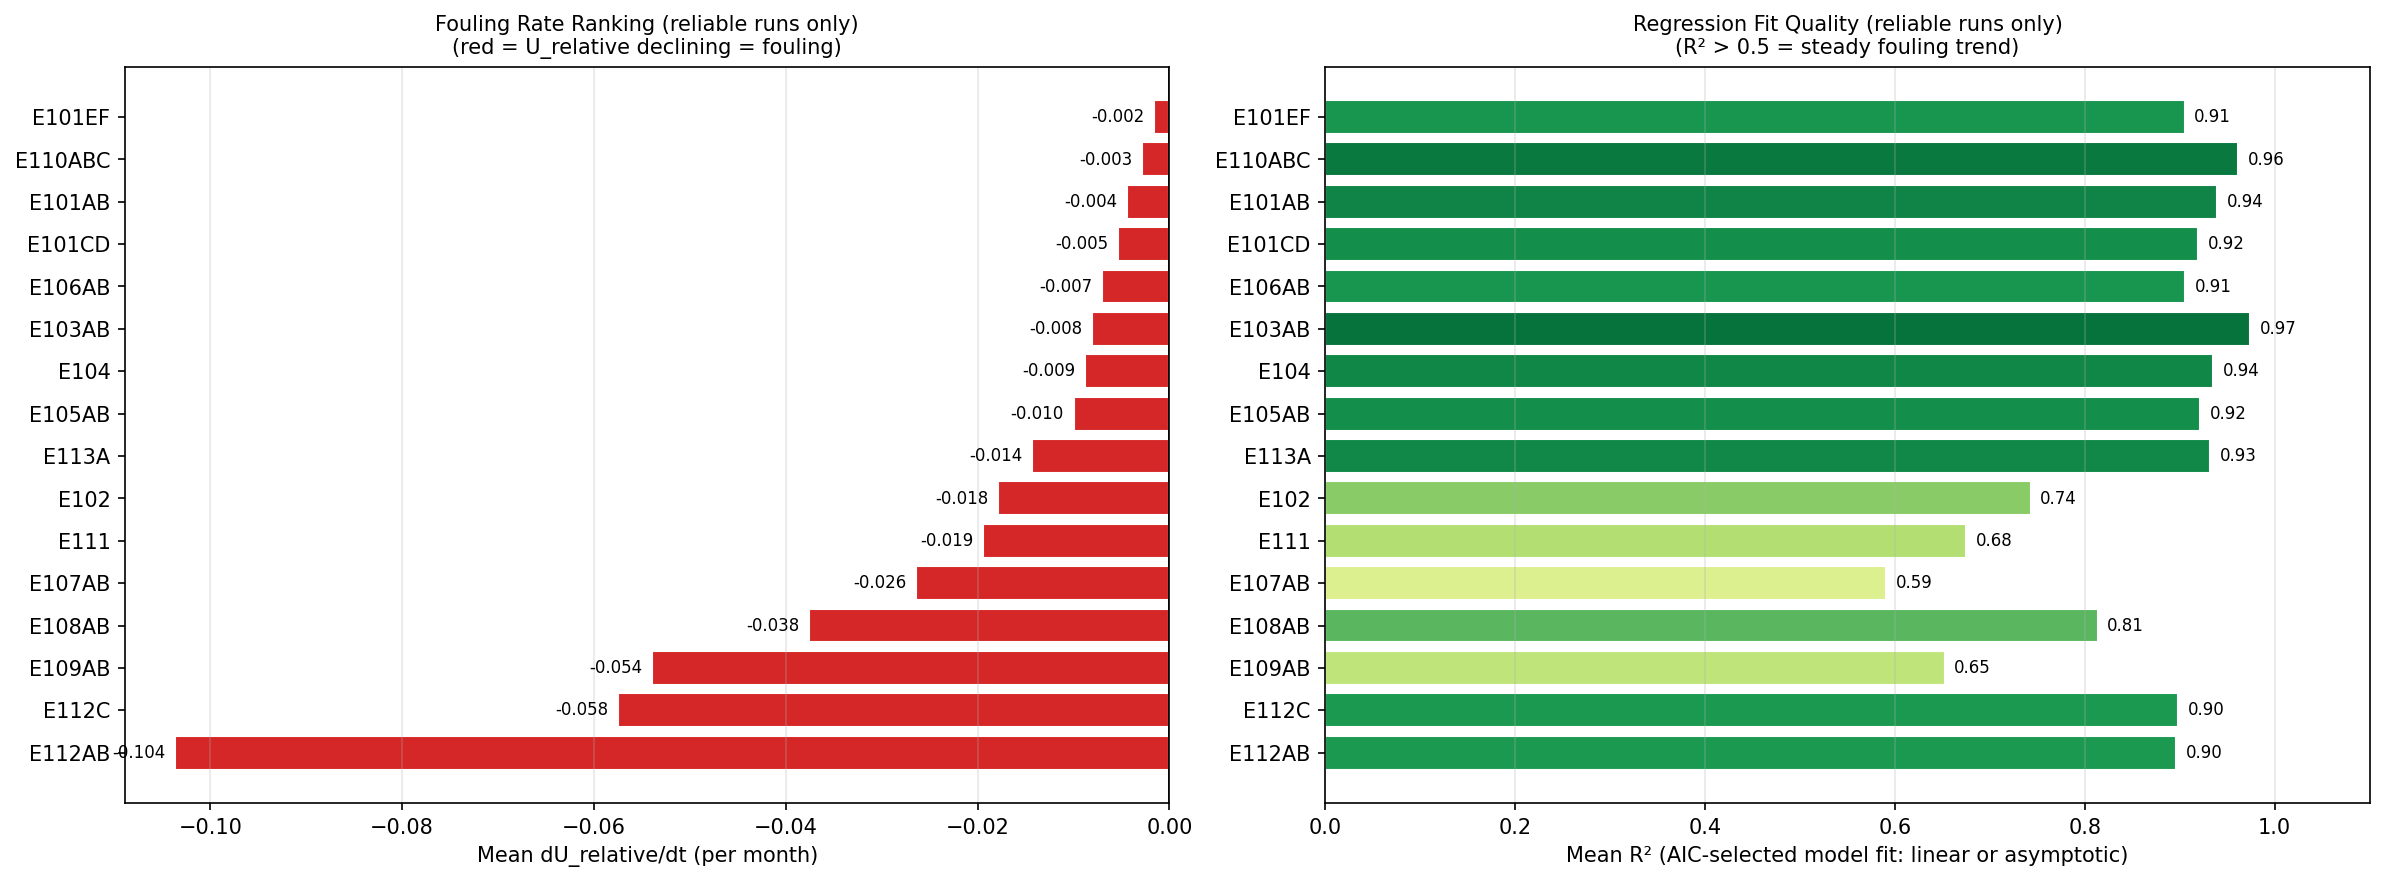
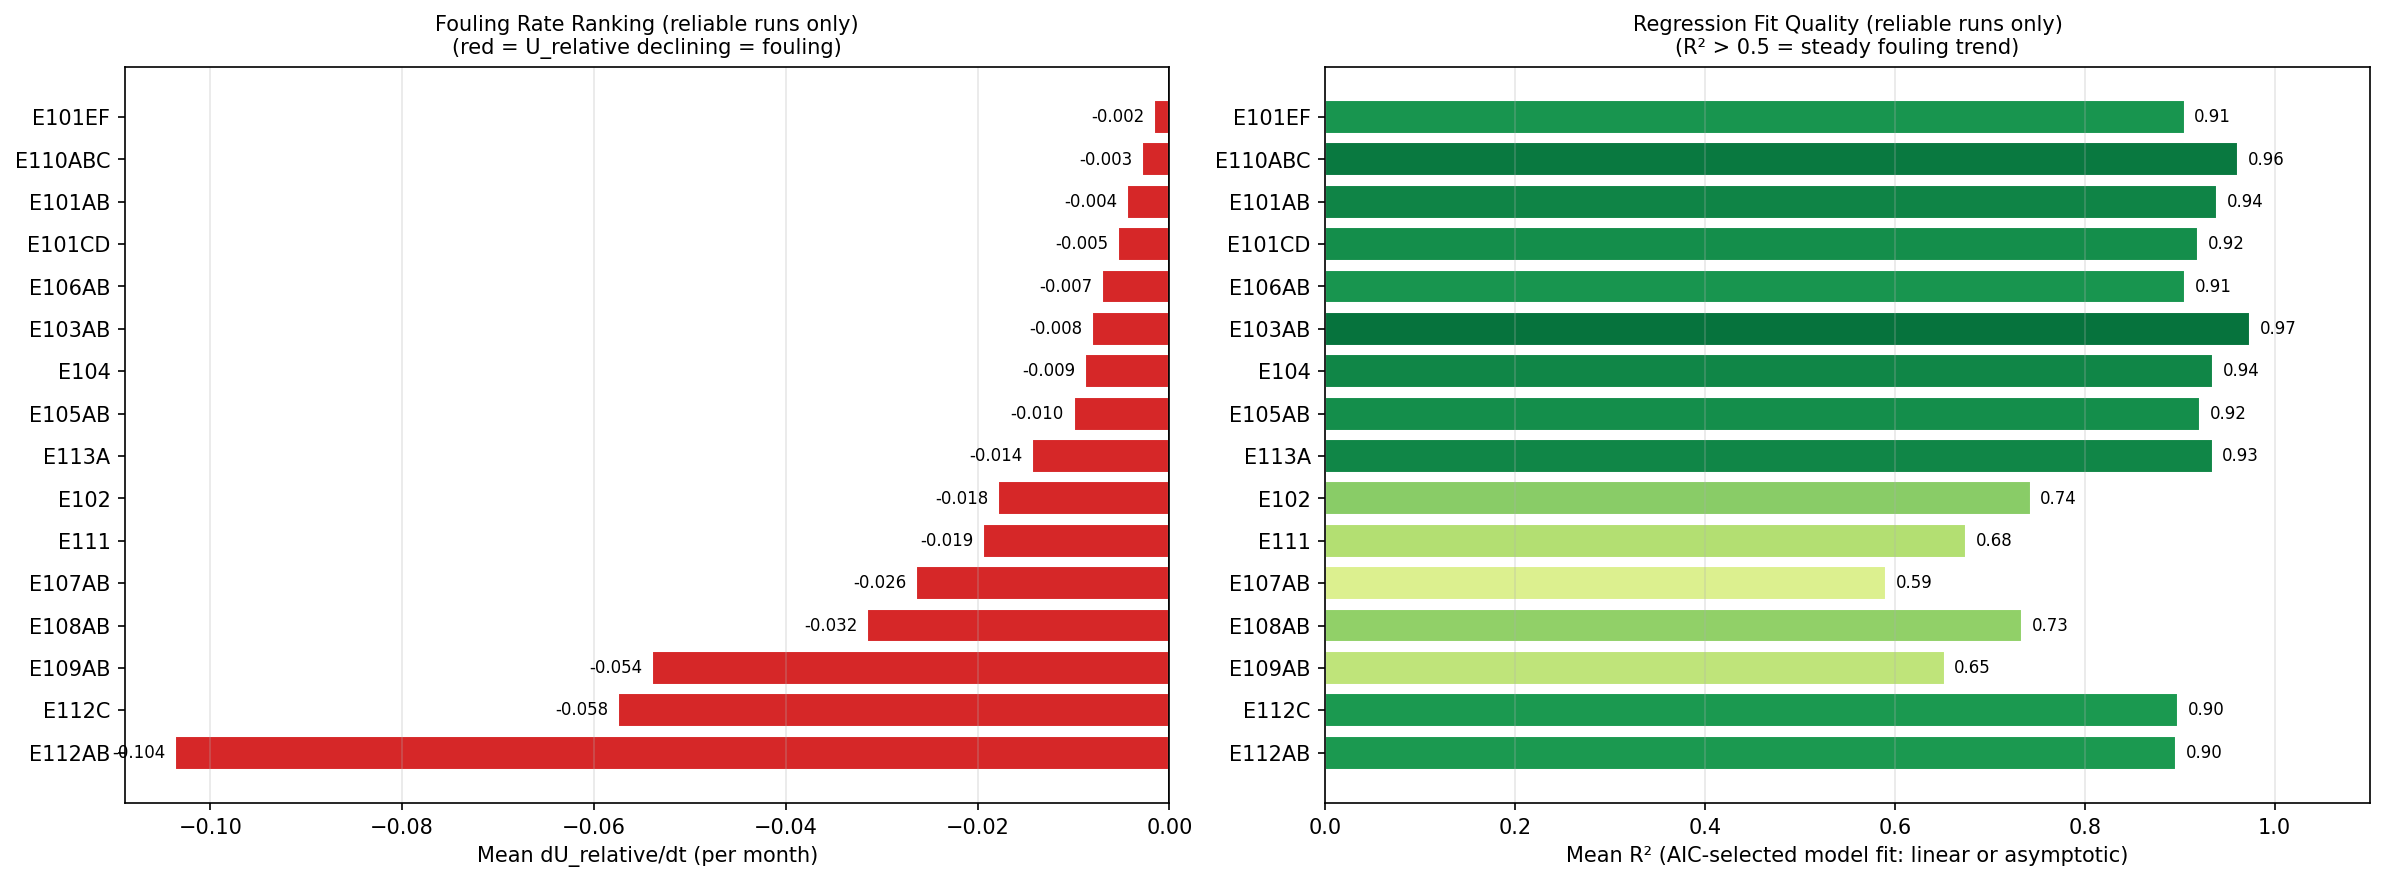
Add isolated single-day spike guard to robust_fouling_rate
Winsorizing (clipping U_relative to winsor_ceil) still injects a point AT the ceiling
into the regression -- for a single-day sensor-glitch spike deep into an already-fouled
run, that clipped point drags the fit off the surrounding data even though the run's
overall R2_model can still look fine (confirmed: E113A Run6 2021-10-24, raw
U_relative=1.93 mid-run against a local trend of ~0.25, inflated that run's fit RMSE
~4x). A fouling film doesn't dissolve and reform within a day, so an isolated point far
above BOTH its temporal neighbors (not a sustained step -- that's the separate
intra-run recovery-jump guard) is rejected outright before winsorizing, rather than
clipped in.

Re-ran pipeline/compute_fouling_rate.py to confirm the change runs cleanly end to end.

Changed region(s): [[0.5587, 0.6735, 0.9002, 0.7347], [0.3104, 0.6735, 0.3725, 0.7347], [0.9312, 0.4898, 0.9622, 0.5204]]

diff --git a/notebooks/nb_audit.py b/notebooks/nb_audit.py
@@ -205,6 +205,27 @@ def robust_fouling_rate(days_on_duty, u_relative, rf_run=None, state=None,
 
     d1, u1 = d[keep], u[keep]
     rf1 = np.asarray(rf_run, float)[keep] if rf_run is not None else None
+
+    # isolated single-day spike guard: a raw U_relative value far above BOTH its temporal
+    # neighbors (not a sustained step -- that's the recovery-jump guard below) is a sensor
+    # glitch, not a physical value -- a fouling film doesn't dissolve and reform within a
+    # day. Reject it outright rather than winsorize-clip it to winsor_ceil: clipping still
+    # injects a point AT winsor_ceil into the regression, which for a spike deep into an
+    # already-fouled run drags the fit far off the surrounding data (confirmed: E113A Run6
+    # 2021-10-24, raw U_relative=1.93 mid-run while the local trend was ~0.25, inflated that
+    # run's fit RMSE ~4x even though R2_model looked fine overall).
+    if len(u1) >= 8:
+        order0 = np.argsort(d1)
+        roll_med = pd.Series(u1[order0]).rolling(7, min_periods=3, center=True).median().to_numpy()
+        dev = u1[order0] - roll_med
+        spike_sorted = np.isfinite(dev) & (dev > 0.3) & (u1[order0] > winsor_ceil)
+        spike = np.zeros(len(u1), dtype=bool)
+        spike[order0[spike_sorted]] = True
+        if spike.any():
+            d1, u1 = d1[~spike], u1[~spike]
+            if rf1 is not None:
+                rf1 = rf1[~spike]
+
     n_wins = int((u1 > winsor_ceil).sum()) if len(u1) else 0
     u1 = np.clip(u1, None, winsor_ceil)
 